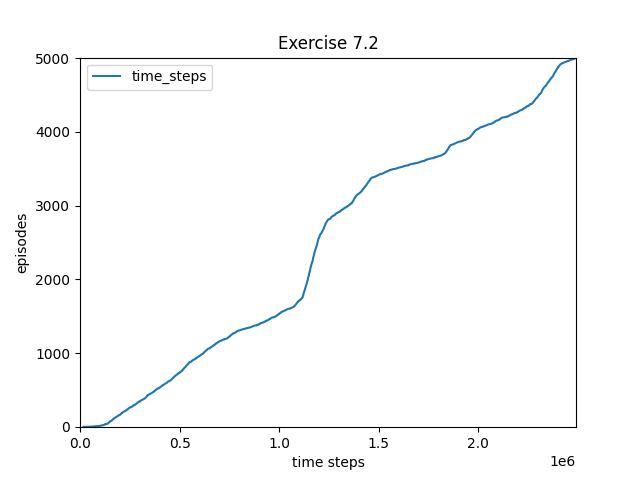
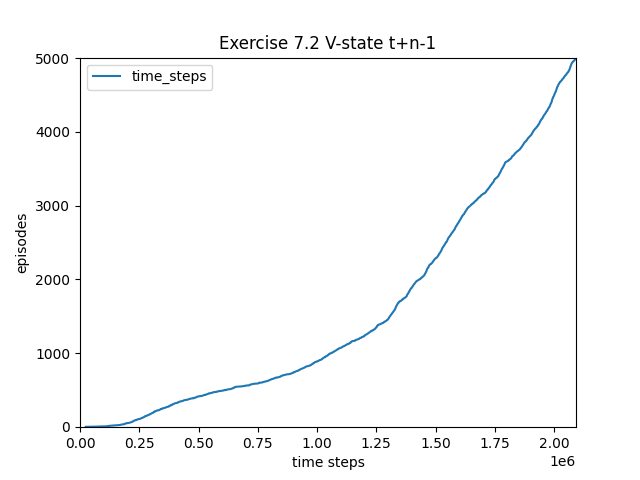
Complete exercises 7.2-7.9 + 7.11

diff --git a/Ch_7_N_Step_Prediction/run_racetrack.py b/Ch_7_N_Step_Prediction/run_racetrack.py
@@ -16,21 +16,28 @@ if __name__ == "__main__":
         print("episode: {}".format(i))
         reward = -1
         while reward != 1:
-            reward = agent.play(mode="v_same")
+            reward = agent.play()
             t_step += 1
         for t in range(agent.t, agent.t + agent.n - 1):
             if t >= agent.n - 1:
-                err = np.sum([agent.rewards[j] + agent.discount_rate * agent.update_values[j+1] - agent.update_values[j] for j in range(t - agent.n + 1, agent.t)])
-                update_state = agent.states[t - agent.n + 1]
-                agent.values[update_state] += agent.alpha * err
-                # G = np.sum([agent.rewards[j] * (agent.discount_rate ** i) for i, j in enumerate([k for k in range(t - agent.n + 1, agent.t)])])
+                # err = np.sum([(agent.discount_rate ** i) * (agent.rewards[j] + agent.discount_rate * \
+                #               agent.update_values[j+1] - agent.update_values[j]) for i,j in enumerate([k for k in
+                #               range(t - agent.n + 1, agent.t)])])
                 # update_state = agent.states[t - agent.n + 1]
-                # agent.values[update_state] += agent.alpha * (G - agent.values[update_state])
+                # agent.values[update_state] += agent.alpha * err
+                G = np.sum([(agent.discount_rate ** i) * agent.rewards[j] for i, j in
+                            enumerate([k for k in range(t - agent.n + 1, agent.t)])])
+                # up to T which is agent.t
+                G += (agent.discount_rate ** agent.n) * \
+                    agent.values[agent.states[agent.t]]
+                update_state = agent.states[t - agent.n + 1]
+                err = G - agent.values[update_state]
+                agent.values[update_state] += agent.alpha * err
         agent.reset()
         time_step_tracker.append(t_step)
 
     graph = pd.DataFrame({"time_steps": time_step_tracker}).plot(
-        kind="line", title="Exercise 7.2 V_State same")
+        kind="line", title="Exercise 7.2 V-state t+n-1")
     newx = graph.lines[0].get_ydata()
     newy = graph.lines[0].get_xdata()
     graph.lines[0].set_xdata(newx)
@@ -40,4 +47,4 @@ if __name__ == "__main__":
     graph.set_xlabel("time steps")
     graph.set_ylabel("episodes")
     f = graph.get_figure()
-    f.savefig("./figs/ex_7.2_2.png")
+    f.savefig("./figs/ex_7.2_1.png")

diff --git a/Ch_7_N_Step_Prediction/src/agent.py b/Ch_7_N_Step_Prediction/src/agent.py
@@ -71,18 +71,18 @@ class Agent:
         if self.t >= self.n - 1:
             G = np.sum([self.rewards[j] * (self.discount_rate ** i)
                         for i, j in enumerate([j for j in range(self.t - self.n + 1, self.t + 1)])])
-            G += (self.discount_rate ** self.n) * self.values[self.states[-1]]
+            G += (self.discount_rate ** self.n) * self.values[self.states[self.t + 1]]
+            # mathematically, the only difference between update_td and update_td_v_same is that
+            # we are adding v_{t+n-1}(S_t+n) to G instead of V_{t}(S_t)
             update_state = self.states[self.t - self.n + 1]
-            self.values[update_state] += self.alpha * \
-                (G - self.values[update_state])
+            err = G - self.values[update_state]
+            self.values[update_state] += self.alpha * err
 
     def update_td_v_same(self):
-        self.update_values.append(self.values[self.states[-1]])
+        self.update_values.append(self.values[self.states[self.t + 1]])
         if self.t >= self.n - 1:
-            # end on self.t - self.n + 1 so we want to start the 'after count' at self.t - self.n + 1 as well
-            # the last start count should be self.t - 2
-            err = np.sum([self.rewards[j] + self.discount_rate * self.update_values[j+1] -
-                          self.update_values[j] for j in range(self.t - self.n + 1, self.t + 1)])
+            err = np.sum([(self.discount_rate ** i) * (self.rewards[j] + self.discount_rate * self.update_values[j+1]
+                          - self.update_values[j]) for i,j in enumerate([k for k in range(self.t - self.n + 1, self.t + 1)])])
             update_state = self.states[self.t - self.n + 1]
             self.values[update_state] += self.alpha * err
 

diff --git a/Ch_7_N_Step_Prediction/exercises.md b/Ch_7_N_Step_Prediction/exercises.md
@@ -52,7 +52,7 @@ For the experiment I decided to apply the n-step method to the racetrack problem
 
 ![](./figs/ex_7.2_2.png)
 
-Keeping the values on the time step of the state being updated performs better!
+Using the same value function as the time step of the value being updated does not perform better. It performs worse. This can be explaind with the error reduction property. Using the most recent values will be equivalent to using values closer to the true value, so it should speed up learning.
 
 ## Exercise 7.3
 *Why do you think a larger random walk task (19 states instead of 5) was
@@ -60,4 +60,295 @@ used in the examples of this chapter? Would a smaller walk have shifted the adva
 to a di↵erent value of n? How about the change in left-side outcome from 0 to 1 made
 in the larger walk? Do you think that made any di↵erence in the best value of n?*
 
-A smaller walk would have 
+A larger random walk task was used in order to be able to show a wider range of n values, to be able to understand the relationship between the value of n and performance more clearly.
+
+Yes, a smaller walk would have shifted the advantage of n to a lower value of n. In the case of a smaller walk, larger values of n would shift improbable states farther from their true values. To show why, we should consider the example of 5 states with n=2 compared to n=3. In the case of n=2 states V(D) and V(E) are shifted closer to the value of 1 from 0.5 as they should be. In the case of n=3, V(D), V(E) and V(C) are all shifted when V(C) is already at its true value, causing V(C) to have a greater value than it should. Especially in this case without discounting, we don't want the value of rewards to be carried so far with these smaller environments. However, if we had a larger environment, it would make sense to have an n value greater than 2 since we would not have the same problem.
+
+I don't think shifting the left-side outcome from 0 to -1 made a difference in the best values of n because the states were all initiated to values of 0, rather than 0.5. The scales were all shifted to favor this. Perhaps having a wider range of rewards allows for larger n but I'm not sure why it would.
+
+
+## Exercise 7.4
+*Prove that the n-step return of Sarsa (7.4) can be written exactly in terms
+of a novel TD error, as (7.6)*
+
+$G_{t:t+n} = R_{t+1} + \gamma R_{t+2} + ... + \gamma^{n-1}R_{t+n} + \gamma^n Q_{t+n-1}(S_{t+n}, A_{t+n})$
+
+----------
+
+Assuming $n\ge 1$ and $0\le t < T-n$
+
+$Q_{t-1} (S_t, A_t) + \sum_{k=t}^{t+n-1}{y^{k-t}[R_{k+1} + \gamma Q_k(S_{k+1},A_{k+1}) - Q_{k-1}(S_k,A_k)]}$
+
+$= Q_{t-1} (S_t, A_t) + R_{t+1} + \gamma Q_t(S_{t+1},A_{t+1}) - Q_{t-1}(S_t,A_t) + \sum_{k=t+1}^{t+n-1}{y^{k-t}[R_{k+1} + \gamma Q_k(S_{k+1},A_{k+1}) - Q_{k-1}(S_k,A_k)]}$
+
+$= R_{t+1} + \gamma Q_t(S_{t+1},A_{t+1}) + \sum_{k=t+1}^{t+n-1}{y^{k-t}[R_{k+1} + \gamma Q_k(S_{k+1},A_{k+1}) - Q_{k-1}(S_k,A_k)]}$
+
+$= R_{t+1} + \gamma R_{t+2} + \gamma^2 Q_{t+1}(S_{t+2},A_{t+2}) + \sum_{k=t+2}^{t+n-1}{y^{k-t}[R_{k+1} + \gamma Q_k(S_{k+1},A_{k+1}) - Q_{k-1}(S_k,A_k)]}$
+
+$= R_{t+1} + \gamma R_{t+2} + ... + \gamma^{n-1} R_{t+n} + \gamma^n Q_{t+n-1}(S_{t+n},A_{t+n}) = G_{t:t+n}$
+
+## Exercise 7.5
+*Write the pseudocode for the off-policy state-value prediction algorithm
+described above.*
+
+```
+Off-policy per-decision n-step state-value prediction for estimating V~v_* or v_pi
+
+Input: an arbitrary behavior policy b such that b(a|s) > 0 for all s in S, a in A
+Initialize V(s) arbitrarily, for all s in S
+Initialize pi to be greedy with respect to Q, or as a fixed given policy
+Algorithm parameters: step size a in (0,1], a positive integer n, dc_factor in (0,1)
+All store and access operations (for St, At, and Rt) can take their index mod n+1
+
+Define G_t_h
+    Input: t, h, T
+    Output: G_t:h value
+    pt <- pi_(At|St)/b(At|St)
+    If t-1 == T:
+        return R_T
+    If t == h:
+        Return V(Sh)
+    Else:
+        Return pt * (R_t+1 + dc_factor * G_t_h(t+1, h)) + (1 - pt)* V(St)
+
+Loop for each episode:
+    Initialize and store S0 != terminal
+    T <- infinity
+    Loop for t = 0,1,2,...:
+        if t < T then:
+            Select and store action At according to policy b(.|St)
+            Take action At
+            Observe and store the next reward as Rt+1 and the next state as St+1
+            If St+1 is terminal, then T <- t + 1
+        update_index = t - n + 1
+        if update_index >= 0
+            G <- G_t_h(update_index, min(update_index + n, T), T)
+            V(S_update_index) <- V(S_update_index) + alpha * [G - V(S_update_index)]
+            If pi is being learned, then ensure that pi(.|S_update_index) is greedy wrt Q and V
+    Until update_index = T - 1
+```
+
+## Exercise 7.6
+*Prove that the control variate in the above equations does not change the
+expected value of the return.*
+
+$G_{t:h} = R_{t+1} + \gamma (p_{t+1}G_{t+1:h} + V_{h-1}^{-}(S_{t+1}) - p_{t+1}Q_{h-1}(S_{t+1},A_{t+1}))$
+
+$E[G_{t:h}] = E[R_{t+1} + \gamma (p_{t+1}G_{t+1:h} + V_{h-1}^{-}(S_{t+1}) - p_{t+1}Q_{h-1}(S_{t+1},A_{t+1}))]$
+
+$= R_{t+1} + \gamma E[(p_{t+1}G_{t+1:h} + V_{h-1}^{-}(S_{t+1}) - p_{t+1}Q_{h-1}(S_{t+1},A_{t+1}))]$
+
+
+$= R_{t+1} + \gamma (E[(p_{t+1}G_{t+1:h}] + E[V_{h-1}^{-}(S_{t+1})] - E[p_{t+1}Q_{h-1}(S_{t+1},A_{t+1}))])$
+
+Since $E[p_t] = 1$ and $E[V_{h-1}^{-}(S_{t+1})] = V_{h-1}^{-}(S_{t+1})$
+
+$= R_{t+1} + \gamma (E[(G_{t+1:h}] + V_{h-1}^{-}(S_{t+1}) - E[Q_{h-1}(S_{t+1},A_{t+1}))])$
+
+Since $V_{h-1}^{-}(S_{t+1}) = E[Q_{h-1}(S_{t+1},A_{t+1}))])$
+
+$= R_{t+1} + \gamma (E[(G_{t+1:h}]$
+
+$E[G_{t:h}]= R_{t+1} + \gamma (E[(G_{t+1:h}]$
+
+$E[G_{t:h}]= E[G_{t:h}]$
+
+Thus, we see that the control variate does not change the expected value of the return.
+
+## Exercise 7.7
+*Write the pseudocode for the off-policy action-value prediction algorithm
+described immediately above. Pay particular attention to the termination conditions for
+the recursion upon hitting the horizon or the end of episode.*
+
+```
+off-policy action-value prediction for estimating Q~q_* or q_pi
+
+Input: an arbitrary behavior policy b such that b(a|s) > 0 for all s in S and a in A
+Initialize Q(s,a) arbitrarily for all s in S, a in A
+Initialize pi to be greedy wrt to Q, or as a fixed given policy
+Algorithm parameters: step size alpha in (0,1], a positive integer n, dc_factor in (0,1)
+All store and access operations (for St, At, and Rt) can take their index mod n + 1
+
+Define G_h_t
+    Input h, t, T
+    Output: G_t:h value
+    pt+1 <- pi_(At+1|St+1)/b(At+1|St+1)
+    If t+1 == T:
+        Return R_T
+    If t == h:
+        Return Q(St,At)
+    Else:
+        Return R_t+1 + dc_factor * (pt+1 * G_h_t(t+1,h,T) + SUM(pi(At+1|St+1)*Q(St+1,a) for all a in A) - pt+1*Q(St+1,At+1))
+
+Loop for each episode:
+    Initialize and store S0 != terminal
+    Select and store an action A0 ~ b(.|S0)
+    T <- infinity
+    Loop for t = 0,1,2,...:
+        Ff t < T then:
+            Take action At
+            Observe and store the next reward as Rt+1, next state as St+1
+            If St+1 is terminal, then:
+                T <- t + 1
+            Else:
+                Select and store an action A_t+1 ~ B(.|St+1)
+        update_index = t - n + 1
+        If update_index >= 0:
+            G <- G_h_t(update_index, min(update_index + n, T), T)
+            Q(S_update_index, A_update_index) = Q(S_update_index, A_update_index) + alpha * [G - Q(S_update_index, A_update_index]
+            If pi is being learned, then ensure that pi(.|S_update_index) us greedt wrt Q
+    Until update_index = T-1
+```
+
+## Exercise 7.8
+*Show that the general (off-policy) version of the n-step return (7.13) can
+still be written exactly and compactly as the sum of state-based TD errors (6.5) if the
+approximate state value function does not change.*
+
+Here are our identities:
+
+$G_{t:h} = p_t(R_{t+1} + \gamma G_{t+1:h}) + (1-p_t) V(S_t)$
+
+$\delta_t = R_{t+1} + \gamma V(S_{t+1}) - V(S_t)$
+
+Expand $G_{t:h}$
+
+$G_{t:h} = p_t(R_{t+1} + \gamma (p_{t+1}(R_{t+2} + \gamma G_{t+2:h}) + (1-p_{t+1}) V(S_{t+1})) + (1-p_t) V(S_t)$
+
+$= p_tR_{t+1} + p_t \gamma (p_{t+1} R_{t+2} + p_{t+1} \gamma G_{t+2:h}) + V(S_{t+1}) - p_{t+1} V(S_{t+1})) + V(S_t) - p_tV(S_t)$
+
+$= p_t( R_{t+1} + \gamma V(S_{t+1}) - V(S_t) \gamma (p_{t+1} R_{t+2} + p_{t+1} \gamma G_{t+2:h}) - p_{t+1} V(S_{t+1})) + V(S_t)$
+
+$= p_t( \delta_t + p_{t+1} \gamma (R_{t+2} + \gamma G_{t+2:h} - V(S_{t+1}))) + V(S_t)$
+
+$= p_t \delta_t + p_t p_{t+1} \gamma (R_{t+2} + \gamma G_{t+2:h} - V(S_{t+1})) + V(S_t)$
+
+Expand again:
+
+$= p_t \delta_t + p_t p_{t+1} \gamma (R_{t+2} + \gamma ( p_{t+2}(R_{t+3} + \gamma G_{t+3:h}) + (1-p_{t+2}) V(S_{t+2})) - V(S_{t+1})) + V(S_t)$
+
+$= p_t \delta_t + p_t p_{t+1} \gamma (R_{t+2} + \gamma V(S_{t+2}) - V(S_{t+1}) + p_{t+2} \gamma ( R_{t+3} + \gamma G_{t+3:h} - V(S_{t+2}) ) + V(S_t)$
+
+$= p_t \delta_t + p_t p_{t+1} \gamma (\delta_{t+1} + p_{t+2} \gamma ( R_{t+3} + \gamma G_{t+3:h} - V(S_{t+2}) ) + V(S_t)$
+
+$= p_t \delta_t + p_t p_{t+1} \gamma \delta_{t+1} + p_t p_{t+1} p_{t+2} \gamma^2 ( R_{t+3} + \gamma G_{t+3:h} - V(S_{t+2}) ) + V(S_t)$
+
+There's a pattern!
+
+$= p_t \delta_t + p_t p_{t+1} \gamma \delta_{t+1} + p_t p_{t+1} p_{t+2} \gamma^2 \delta_{t+2} + ... + \prod_{k=t}^{h}{p_{k}} * \gamma^{h-t}(R_{h} + \gamma G_{h:h} - V(S_{h-1})) + V(S_t)$
+
+$= p_t \delta_t + p_t p_{t+1} \gamma \delta_{t+1} + p_t p_{t+1} p_{t+2} \gamma^2 \delta_{t+2} + ... + \prod_{k=t}^{h}{p_{k}} * \gamma^{h-t}(R_{h} + \gamma V(S_{h}) - V(S_{h-1})) + V(S_t)$
+
+$= p_t \delta_t + p_t p_{t+1} \gamma \delta_{t+1} + p_t p_{t+1} p_{t+2} \gamma^2 \delta_{t+2} + ... + \prod_{k=t}^{h}{p_{k}} * \gamma^{h-t}\delta_h + V(S_t)$
+
+$= (\sum_{k=t}^{h}{(\prod_{i=t}^{k}{p_k})\gamma^{k-t}\delta_k}) + V(S_t)$
+
+## Exercise 7.9
+*Repeat the above exercise for the action version of the off-policy n-step
+return (7.14) and the Expected Sarsa TD error (the quantity in brackets in Equation 6.9).*
+
+Here are our identities:
+
+$G_{t:h} = R_{t+1} + p_{t+1} \gamma (G_{t+1:h} - Q(S_{t+1},A_{t+1})) + \gamma V^-(S_{t+1})$
+
+$V^-(S_{t}) = \sum_{a}{\pi(a|S_t)Q(S_t,a)}$
+
+$\delta_t = R_{t+1} + \gamma(\sum_{a}{\pi(a|S_{t+1})Q(S_{t+1},a)}) - Q(S_t,A_t)$
+
+Replace $V^-(S_{t})$
+
+$G_{t:h} = R_{t+1} + p_{t+1} \gamma (G_{t+1:h} - Q(S_{t+1},A_{t+1})) + \gamma \sum_{a}{\pi(a|S_t)Q(S_t,a)}$
+
+$= R_{t+1} + \gamma \sum_{a}{\pi(a|S_t)Q(S_t,a)} + p_{t+1} \gamma (G_{t+1:h} - Q(S_{t+1},A_{t+1}))$
+
+$= R_{t+1} + \gamma \sum_{a}{\pi(a|S_t)Q(S_t,a)} - Q(S_t,A_t) + Q(S_t,A_t) + p_{t+1} \gamma (G_{t+1:h} - Q(S_{t+1},A_{t+1}))$
+
+Sub in our identity
+
+$= \delta_t + p_{t+1} \gamma (G_{t+1:h} - Q(S_{t+1},A_{t+1})) + Q(S_t,A_t)$
+
+Expand
+
+$= \delta_t + p_{t+1} \gamma (R_{t+2} + p_{t+2} \gamma (G_{t+2:h} - Q(S_{t+2},A_{t+2})) + \gamma V^-(S_{t+2}) - Q(S_{t+1},A_{t+1})) + Q(S_t,A_t)$
+
+
+$= \delta_t + p_{t+1} \gamma (R_{t+2} + p_{t+2} \gamma (G_{t+2:h} - Q(S_{t+2},A_{t+2})) + \gamma \sum_{a}{\pi(a|S_{t+2})Q(S_{t+2},a)} - Q(S_{t+1},A_{t+1})) + Q(S_t,A_t)$
+
+$= \delta_t + p_{t+1} \gamma (R_{t+2} + \gamma \sum_{a}{\pi(a|S_{t+2})Q(S_{t+2},a)} - Q(S_{t+1},A_{t+1}) + p_{t+2} \gamma (G_{t+2:h} - Q(S_{t+2},A_{t+2}))) + Q(S_t,A_t)$
+
+$= \delta_t + p_{t+1} \gamma (\delta_{t+1} + p_{t+2} \gamma (G_{t+2:h} - Q(S_{t+2},A_{t+2}))) + Q(S_t,A_t)$
+
+$= \delta_t + p_{t+1} \gamma \delta_{t+1} + p_{t+1} p_{t+2} \gamma^2 (G_{t+2:h} - Q(S_{t+2},A_{t+2})) + Q(S_t,A_t)$
+
+There's a pattern!
+
+$= \delta_t + p_{t+1} \gamma \delta_{t+1} + p_{t+1} p_{t+2} \gamma^2 \delta_{t+2} + ... + p_{t+1}...p_{h-1}\gamma^{h-t-1}(G_{h-1:h} - Q(S_{h-1}, A_{h-1})) + Q(S_t,A_t)$
+
+Expand
+
+$= \delta_t + p_{t+1} \gamma \delta_{t+1} + p_{t+1} p_{t+2} \gamma^2 \delta_{t+2} + ... + p_{t+1}...p_{h-1}\gamma^{h-t-1}(R_{h} + p_{h} \gamma (G_{h:h} - Q(S_{h},A_{h})) + \gamma V^-(S_{h}) - Q(S_{h-1}, A_{h-1})) + Q(S_t,A_t)$
+
+Remember:
+
+$G_{h:h} = Q(S_h, A_h)$
+
+Sub in our identities:
+
+$= \delta_t + p_{t+1} \gamma \delta_{t+1} + p_{t+1} p_{t+2} \gamma^2 \delta_{t+2} + ... + p_{t+1}...p_{h-1}\gamma^{h-t-1}(R_{h} + p_{h} \gamma (Q(S_h, A_h) - Q(S_{h},A_{h})) + \gamma \sum_{a}{\pi(a|S_h)Q(S_h,a)} - Q(S_{h-1}, A_{h-1})) + Q(S_t,A_t)$
+
+$= \delta_t + p_{t+1} \gamma \delta_{t+1} + p_{t+1} p_{t+2} \gamma^2 \delta_{t+2} + ... + p_{t+1}...p_{h-1}\gamma^{h-t-1}(R_{h} + \gamma \sum_{a}{\pi(a|S_h)Q(S_h,a)} - Q(S_{h-1}, A_{h-1})) + Q(S_t,A_t)$
+
+$= \delta_t + p_{t+1} \gamma \delta_{t+1} + p_{t+1} p_{t+2} \gamma^2 \delta_{t+2} + ... + p_{t+1}...p_{h-1}\gamma^{h-t-1}\delta_{h-1} + Q(S_t,A_t)$
+
+$G_{t:h} = \delta_t + (\sum_{k=t+1}^{h-1} (\prod_{t+1}^{k} p_k) \gamma^{k-t} \delta_k) + Q(S_t,A_t)$
+
+## Exercise 7.10
+*Devise a small off-policy prediction problem and use it to
+show that the o↵-policy learning algorithm using (7.13) and (7.2) is more data ecient
+than the simpler algorithm using (7.1) and (7.9).*
+
+## Exercise 7.11
+*Show that if the approximate action values are unchanging, then the
+tree-backup return (7.16) can be written as a sum of expectation-based TD errors:*
+
+Prove:
+
+$G_{t:t+n} = Q(S_t,A_t) + \sum_{k=t}^{min(t+n-1,T-1)}{\delta_k \prod_{i=t+1}^{k}{\gamma \pi(A_i|S_i)}}$
+
+Identities:
+
+$V^-(S_{t}) = \sum_{a}{\pi(a|S_t)Q(S_t,a)}$
+
+$\delta_t = R_{t+1} + \gamma(\sum_{a}{\pi(a|S_{t+1})Q(S_{t+1},a)}) - Q(S_t,A_t)$
+
+$G_{t:t+n} = R_{t+1} + \gamma \sum_{a!=A_t}{\pi(a|S_{t+1})Q(S_{t+1},a)} + \gamma \pi(A_{t+1}, S_{t+1})G_{t+1:t+n}$
+
+Proof
+
+$G_{t:t+n} = R_{t+1} + \gamma \sum_{a!=A_t}{\pi(a|S_{t+1})Q(S_{t+1},a)} + \gamma \pi(A_{t+1}|S_{t+1})Q(S_{t+1}, A_{t+1}) - \gamma \pi(A_{t+1}|S_{t+1})Q(S_{t+1}, A_{t+1}) + Q(S_t, A_t) - Q(S_t, A_t) + \gamma \pi(A_{t+1}, S_{t+1})G_{t+1:t+n}$
+
+$G_{t:t+n} = R_{t+1} + \gamma V^-(S_{t+1}) - Q(S_t, A_t) - \gamma \pi(A_{t+1}|S_{t+1})Q(S_{t+1}, A_{t+1}) + Q(S_t, A_t) + \gamma \pi(A_{t+1}, S_{t+1})G_{t+1:t+n}$
+
+$G_{t:t+n} = \delta_t - \gamma \pi(A_{t+1}|S_{t+1})Q(S_{t+1}, A_{t+1}) + Q(S_t, A_t) + \gamma \pi(A_{t+1}| S_{t+1})G_{t+1:t+n}$
+
+$G_{t:t+n} = \delta_t - \gamma \pi(A_{t+1}|S_{t+1})Q(S_{t+1}, A_{t+1}) + Q(S_t, A_t) + \gamma \pi(A_{t+1}| S_{t+1})(R_{t+2} + \gamma \sum_{a!=A_{t+1}}{\pi(a|S_{t+2})Q(S_{t+2},a)} + \gamma \pi(A_{t+2}, S_{t+2})G_{t+2:t+n})$
+
+$G_{t:t+n} = \delta_t + Q(S_t, A_t) + \gamma \pi(A_{t+1}| S_{t+1})(R_{t+2} + \gamma \sum_{a!=A_{t+1}}{\pi(a|S_{t+2})Q(S_{t+2},a)} + \gamma \pi(A_{t+2}| S_{t+2})G_{t+2:t+n} - Q(S_{t+1}, A_{t+1}))$
+
+$G_{t:t+n} = Q(S_t, A_t) + \delta_t + \gamma \pi(A_{t+1}| S_{t+1})(R_{t+2} + \gamma \sum_{a!=A_{t+1}}{\pi(a|S_{t+2})Q(S_{t+2},a)} + \gamma \pi(A_{t+2}|S_{t+2})Q(S_{t+2}, A_{t+2}) - \gamma \pi(A_{t+2}|S_{t+2})Q(S_{t+2}, A_{t+2}) - Q(S_{t+1}, A_{t+1}) + \gamma \pi(A_{t+2}| S_{t+2})G_{t+2:t+n})$
+
+$G_{t:t+n} = Q(S_t, A_t) + \delta_t + \gamma \pi(A_{t+1}| S_{t+1})(R_{t+2} + \gamma V^-(S_{t+2}) - Q(S_{t+1}, A_{t+1}) - \gamma \pi(A_{t+2}|S_{t+2})Q(S_{t+2}, A_{t+2}) + \gamma \pi(A_{t+2}| S_{t+2})G_{t+2:t+n})$
+
+$G_{t:t+n} = Q(S_t, A_t) + \delta_t + \gamma \pi(A_{t+1}| S_{t+1})(\delta_{t+1} - \gamma \pi(A_{t+2}|S_{t+2})Q(S_{t+2}, A_{t+2}) + \gamma \pi(A_{t+2}| S_{t+2})G_{t+2:t+n})$
+
+$G_{t:t+n} = Q(S_t, A_t) + \delta_t + \pi(A_{t+1}| S_{t+1}) \gamma  \delta_{t+1} - \pi(A_{t+1}| S_{t+1}) \pi(A_{t+2}|S_{t+2}) \gamma^2 Q(S_{t+2}, A_{t+2}) + \pi(A_{t+1}| S_{t+1}) \pi(A_{t+2}| S_{t+2})\gamma^2G_{t+2:t+n}$
+
+Recursion found!
+
+$G_{t:t+n} = Q(S_t, A_t) + \delta_t + \pi(A_{t+1}| S_{t+1}) \gamma  \delta_{t+1} + \pi(A_{t+1}| S_{t+1}) \pi(A_{t+2}|S_{t+2}) \gamma^2\delta_{t+2} + ... + \prod_{k=t}^{t+n-2}{\pi(A_{k}|S_{k})} \gamma^{n-2} \delta_{t+n-1} - \prod_{k=t}^{t+n-1}{\pi(A_{k}|S_{k})} \gamma^{n-1} Q(S_{t+n-1}, A_{t+n-1}) + \prod_{k=t}^{t+n-1}{\pi(A_{k}|S_{k})} \gamma^{n-1}(G_{t+n-1:t+n})$
+
+$G_{t:t+n} = Q(S_t, A_t) + \delta_t + \pi(A_{t+1}| S_{t+1}) \gamma  \delta_{t+1} + \pi(A_{t+1}| S_{t+1}) \pi(A_{t+2}|S_{t+2}) \gamma^2\delta_{t+2} + ... + \prod_{k=t}^{t+n-2}{\pi(A_{k}|S_{k})} \gamma^{n-2} \delta_{t+n-1} + \prod_{k=t}^{t+n-1}{\pi(A_{k}|S_{k})} \gamma^{n-1}(R_{t+n} + \gamma \sum_{a}{\pi(a|S_{t+n}) Q(S_{t+n}, a)} - Q(S_{t+n-1}, A_{t+n-1}))$
+
+$G_{t:t+n} = Q(S_t, A_t) + \delta_t + \pi(A_{t+1}| S_{t+1}) \gamma  \delta_{t+1} + \pi(A_{t+1}| S_{t+1}) \pi(A_{t+2}|S_{t+2}) \gamma^2\delta_{t+2} + ... + \prod_{k=t}^{t+n-2}{\pi(A_{k}|S_{k})} \gamma^{n-2} \delta_{t+n-1} + \prod_{k=t}^{t+n-1}{\pi(A_{k}|S_{k})} \gamma^{n-1}\delta_{t+n-1}$
+
+$G_{t:t+n} = Q(S_t,A_t) + \sum_{k=t}^{min(t+n-1,T-1)}{\delta_k \prod_{i=t+1}^{k}{\gamma \pi(A_i|S_i)}}$
